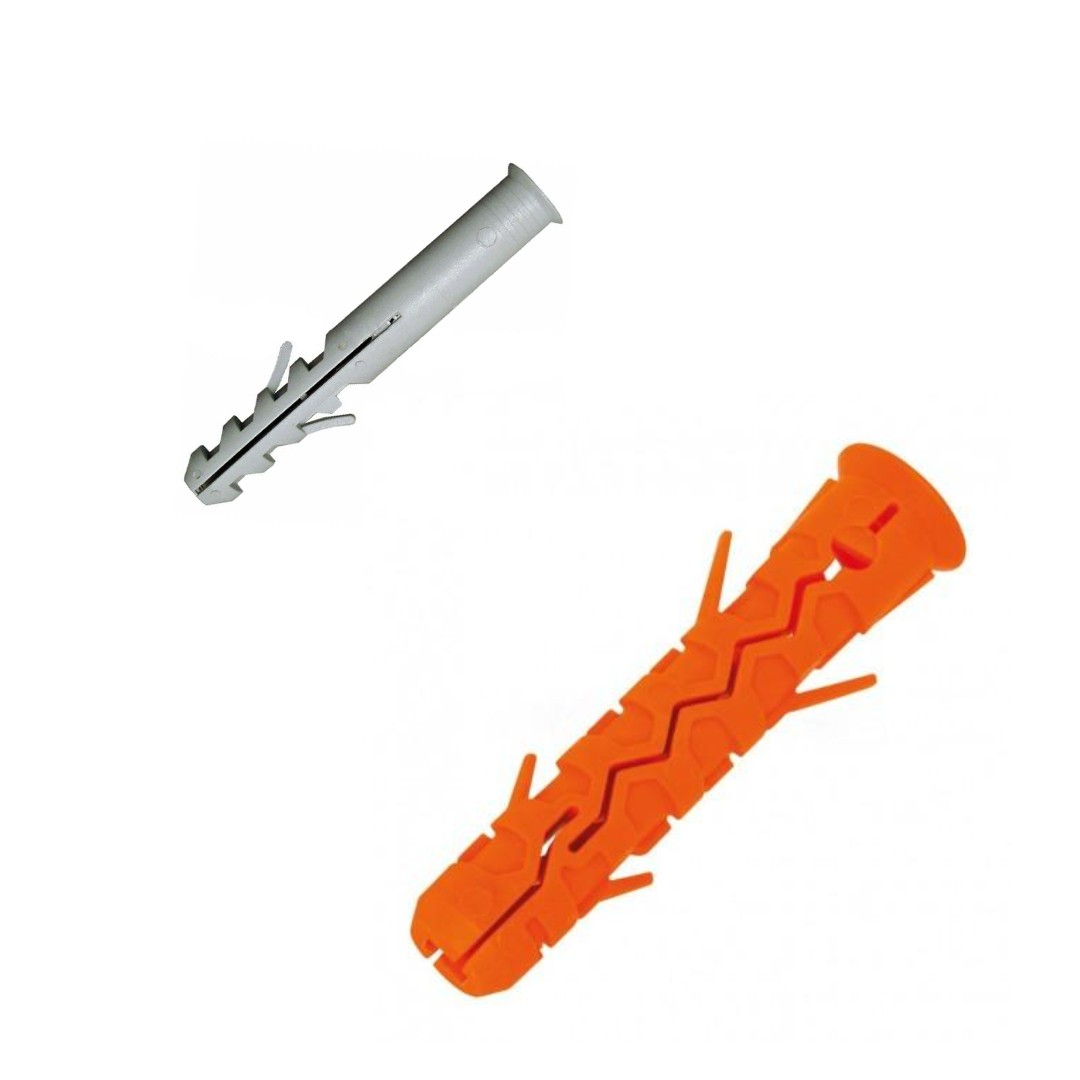
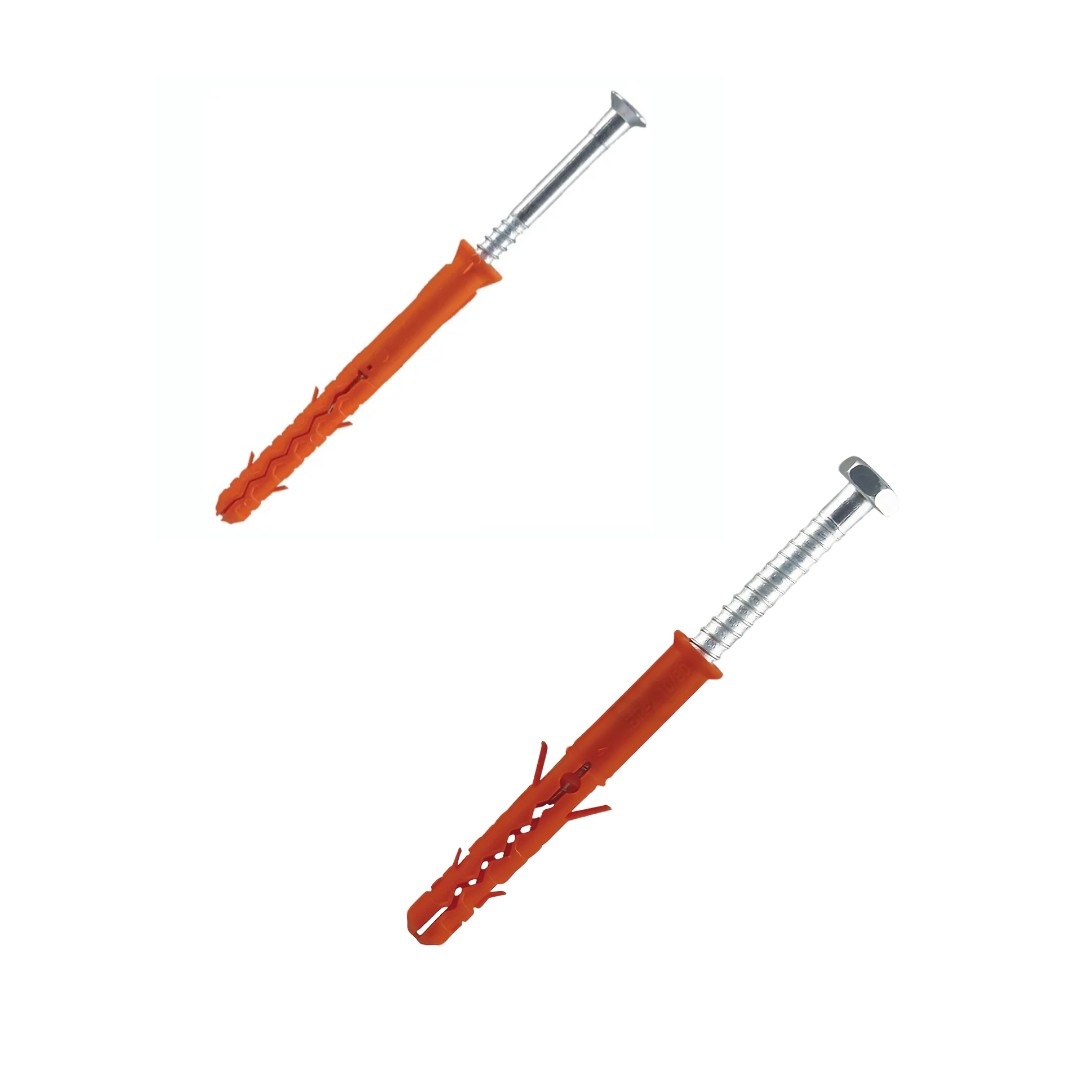
Sync: ETICS removed, Ø120-140mm, 5 linii productie, program lucru, coltar-pvc jpg, product images
https://claude.ai/code/session_01Rs6bxzaTfPSdvsHW5ShD7S

Changed region(s): [[0.3667, 0.3972, 0.9167, 0.9472], [0.1528, 0.0917, 0.6111, 0.4889]]

diff --git a/app/produse/flansa-vata/page.tsx b/app/produse/flansa-vata/page.tsx
@@ -6,9 +6,9 @@ import Footer from "@/components/Footer";
 
 /* ─── Metadata + Schema.org ──────────────────────────────────────────────── */
 export const metadata: Metadata = {
-  title: "Flanșă Vată Minerală — Disc Plastic Ø140-160mm pentru Termoizolație",
+  title: "Flanșă Vată Minerală — Disc Plastic Ø120-140mm pentru Termoizolație",
   description:
-    "Flanșă plastic cu rozetă extinsă Ø140–160mm pentru fixarea vatei minerale și polistirenului. " +
+    "Flanșă plastic cu rozetă extinsă Ø120–140mm pentru fixarea vatei minerale și polistirenului. " +
     "Model cu spite duble, distribuție uniformă a forței de prindere. Fabricată în România.",
   keywords: [
     "flansa vata minerala",
@@ -21,7 +21,7 @@ export const metadata: Metadata = {
   openGraph: {
     title: "Flanșă Vată Minerală | Plast Du IV",
     description:
-      "Disc plastic cu rozetă Ø140–160mm pentru distribuție uniformă a forței pe vată minerală și polistiren.",
+      "Disc plastic cu rozetă Ø120–140mm pentru distribuție uniformă a forței pe vată minerală și polistiren.",
     url: "https://plastdu.ro/produse/flansa-vata",
     images: [{ url: "/images/produse/flansa-vata.jpg", width: 1200, height: 630 }],
   },
@@ -33,7 +33,7 @@ const productSchema = {
   "@type": "Product",
   name: "Flanșă Vată Minerală — Plast Du IV",
   description:
-    "Disc plastic circular cu diametru Ø140–160mm, model cu spite duble, gri închis. " +
+    "Disc plastic circular cu diametru Ø120–140mm, model cu spite duble, gri închis. " +
     "Utilizat pentru fixarea vatei minerale și polistirenului pe fațade. " +
     "Suprafața mare a rozetei asigură distribuție uniformă a forței și previne tăierea izolantului.",
   image: "https://plastdu.ro/images/produse/flansa-vata.jpg",
@@ -64,7 +64,7 @@ const BENEFICII = [
   {
     titlu: "Suprafață de contact mare",
     descriere:
-      "Diametrul de Ø140–160mm al rozetei distribuie forța de fixare pe o suprafață de cca 154–200cm². " +
+      "Diametrul de Ø120–140mm al rozetei distribuie forța de fixare pe o suprafață de cca 113–154cm². " +
       "Previne penetrarea diblului prin stratul de vată minerală sau EPS și menține planietatea fațadei.",
     icon: (
       <svg className="w-6 h-6" fill="none" viewBox="0 0 24 24" stroke="currentColor" strokeWidth={1.5}>
@@ -170,7 +170,7 @@ export default function FlansaVataPage() {
                 <div className="relative w-full aspect-square max-w-lg mx-auto lg:mx-0 rounded-2xl overflow-hidden bg-gradient-to-br from-slate-100 to-slate-200 border border-neutral-border img-watermark">
                   <Image
                     src="/images/produse/flansa-vata/01.jpg"
-                    alt="Flanșă Vată Minerală Ø140-160mm — Plast Du IV"
+                    alt="Flanșă Vată Minerală Ø120-140mm — Plast Du IV"
                     fill
                     className="object-cover"
                     sizes="(max-width: 1024px) 100vw, 50vw"
@@ -204,7 +204,7 @@ export default function FlansaVataPage() {
                 </div>
                 <h1 className="mb-4">Flanșă Vată Minerală</h1>
                 <p className="text-lg text-slate-600 mb-6">
-                  Disc plastic circular cu rozetă extinsă Ø140–160mm, model cu spite duble, gri închis.
+                  Disc plastic circular cu rozetă extinsă Ø120–140mm, model cu spite duble, gri închis.
                   Proiectat pentru fixarea vatei minerale și a polistirenului pe fațade —
                   suprafața mare de contact previne penetrarea stratului izolant și asigură
                   o distribuție uniformă a forței de prindere.
@@ -214,7 +214,7 @@ export default function FlansaVataPage() {
                 <dl className="grid grid-cols-2 gap-3 mb-8">
                   {[
                     { label: "Material", value: "Polipropilenă (PP) stabilizată UV" },
-                    { label: "Diametru rozetă", value: "Ø140–160mm" },
+                    { label: "Diametru rozetă", value: "Ø120–140mm" },
                     { label: "Model", value: "Disc circular cu spite duble" },
                     { label: "Culoare", value: "Gri închis" },
                     { label: "Compatibil cu", value: "Vată minerală + EPS / EPS-G" },
@@ -263,7 +263,7 @@ export default function FlansaVataPage() {
                 a capului diblului în izolant, reducând capacitatea de prindere și deformând fața plăcii.
               </p>
               <p className="text-slate-600">
-                Flanșa cu diametru Ø140–160mm mărește suprafața de contact de cca 7–8 ori față de
+                Flanșa cu diametru Ø120–140mm mărește suprafața de contact de cca 7–8 ori față de
                 rozeta standard, distribuind aceeași forță pe o arie mult mai mare — sub limita
                 de presiune admisă de materialul izolant.
               </p>
@@ -302,10 +302,10 @@ export default function FlansaVataPage() {
                     {[
                       ["Material", "Polipropilenă (PP) cu stabilizatori UV"],
                       ["Formă", "Disc circular cu model spite duble"],
-                      ["Diametru exterior rozetă", "Ø140–160mm"],
+                      ["Diametru exterior rozetă", "Ø120–140mm"],
                       ["Culoare", "Gri închis RAL 7011 (aproximativ)"],
                       ["Gaură centrală", "Ø10mm (compatibil diblu Ø10mm)"],
-                      ["Suprafață de contact", "~154–200cm²"],
+                      ["Suprafață de contact", "~113–154cm²"],
                       ["Temperatură de utilizare", "-40°C … +80°C"],
                       ["Rezistență UV", "Stabilizat contra îmbătrânirii UV"],
                       ["Compatibil cu izolant", "Vată minerală (MW), EPS, EPS-G"],

diff --git a/app/aplicatii/page.tsx b/app/aplicatii/page.tsx
@@ -108,7 +108,7 @@ const APLICATII: Aplicatie[] = [
     imagine: "/images/produse/flansa-vata/01.jpg",
     descriereTehnica: [
       "Vata minerală (MW — Mineral Wool) oferă avantaje suplimentare față de EPS: rezistență la foc (clasa A1/A2), izolație fonică superioară și permeabilitate la vapori. Este obligatorie în clădirile înalte (peste 10 etaje) și în zonele cu cerințe sporite de comportament la foc.",
-      "Specificul fixării cu vată minerală față de polistiren: vata are rezistență la penetrare semnificativ mai redusă față de EPS. Rozeta standard Ø55mm poate intra în izolant dacă forța de strângere este prea mare. Este obligatorie utilizarea flanșei cu rozetă extinsă Ø140–160mm care distribuie forța pe o suprafață mult mai mare.",
+      "Specificul fixării cu vată minerală față de polistiren: vata are rezistență la penetrare semnificativ mai redusă față de EPS. Rozeta standard Ø55mm poate intra în izolant dacă forța de strângere este prea mare. Este obligatorie utilizarea flanșei cu rozetă extinsă Ø120–140mm care distribuie forța pe o suprafață mult mai mare.",
       "Cuiul metalic zincat este preferat față de cuiul PA deoarece rigiditatea metalică previne deformarea plăcilor fibroase de vată. Plăcile de vată minerală lamelă (cu fibre perpendiculare pe suprafață) au rezistență la compresiune mai mare, dar tot se recomandă rozeta mare.",
     ],
     parametriTehnici: [
@@ -116,7 +116,7 @@ const APLICATII: Aplicatie[] = [
       { param: "Densitate minimă recomandată", val: "≥ 80 kg/m³ (tablie) · ≥ 100 kg/m³ (lamelă)" },
       { param: "Grosimi uzuale", val: "80–200mm" },
       { param: "Adâncime ancoraj recomandat", val: "≥ 50mm (cărămidă/BCA), ≥ 40mm (beton)" },
-      { param: "Diametru rozetă flanșă obligatoriu", val: "Ø140–160mm (flanșă vată minerală)" },
+      { param: "Diametru rozetă flanșă obligatoriu", val: "Ø120–140mm (flanșă vată minerală)" },
       { param: "Număr dibluri / m²", val: "5–8 (tablie) · 6–10 (lamelă)" },
     ],
     produse: [
@@ -128,13 +128,13 @@ const APLICATII: Aplicatie[] = [
       },
       {
         href: "/produse/flansa-vata",
-        titlu: "Flanșă Vată Minerală (Ø140–160mm)",
+        titlu: "Flanșă Vată Minerală (Ø120–140mm)",
         descriere: "Disc cu rozetă extinsă — obligatoriu pentru distribuție uniformă pe vată minerală.",
         principal: true,
       },
     ],
     noteTehnician: [
-      "Folosiți ÎNTOTDEAUNA flanșa cu rozetă mare Ø140–160mm la vată minerală cu densitate < 100 kg/m³.",
+      "Folosiți ÎNTOTDEAUNA flanșa cu rozetă mare Ø120–140mm la vată minerală cu densitate < 100 kg/m³.",
       "Nu strângeți excesiv diblul — rozeta trebuie să fie flush cu suprafața vatei, nu să o comprime.",
       "Pe fațade cu cerințe de incombustibilitate (clasa A), vata minerală este singura opțiune ca izolant.",
       "Verificați că stratul de adeziv + vată nu depășește lungimea diblului ales minus adâncimea de ancoraj.",
@@ -480,7 +480,7 @@ export default function AplicatiiPage() {
                     ["Termoizolație exterioară standard", "EPS / EPS-G", "Beton, cărămidă, BCA", "Dibluri Cui Plastic (PA)"],
                     ["Termoizolație exterioară — solicitări mari", "EPS / EPS-G", "Beton, clădiri înalte", "Dibluri Cui Metalic Zincat"],
                     ["Termoizolație exterioară — cărămidă cu goluri", "EPS / Vată", "Cărămidă cu goluri", "Dibluri ZM (Zonă Mare)"],
-                    ["Vată minerală fațadă", "MW lamelă / tablie", "Orice suport", "Diblu metalic + Flanșă Ø140–160mm"],
+                    ["Vată minerală fațadă", "MW lamelă / tablie", "Orice suport", "Diblu metalic + Flanșă Ø120–140mm"],
                     ["OSB pe structură lemn", "—", "Grinzi / montanți lemn", "Flanșă OSB TSF-F55 + șurub galvanizat"],
                     ["Gips-carton (profile)", "—", "Beton, zidărie", "Dibluri Ø10mm (plastic sau metalic)"],
                   ].map(([aplicatie, material, suport, produs], i) => (

diff --git a/app/despre-noi/page.tsx b/app/despre-noi/page.tsx
@@ -15,7 +15,7 @@ export const metadata: Metadata = {
 const CIFRE = [
   { val: "2017", label: "An înființare" },
   { val: "8+", label: "Județe deservite" },
-  { val: "4", label: "Linii de producție" },
+  { val: "5", label: "Linii de producție" },
   { val: "B2B", label: "Focus exclusiv" },
 ];
 
@@ -253,11 +253,11 @@ export default function DespreNoiPage() {
                 <div className="space-y-2 text-sm text-slate-600">
                   <div className="flex justify-between">
                     <span>Luni — Vineri</span>
-                    <span className="font-medium text-slate-800">08:00 — 18:00</span>
+                    <span className="font-medium text-slate-800">08:00 — 17:00</span>
                   </div>
                   <div className="flex justify-between">
                     <span>Sâmbătă</span>
-                    <span className="font-medium text-slate-800">08:00 — 14:00</span>
+                    <span className="font-medium text-slate-500">Închis</span>
                   </div>
                   <div className="flex justify-between">
                     <span>Duminică</span>

diff --git a/app/produse/page.tsx b/app/produse/page.tsx
@@ -45,9 +45,9 @@ const PRODUSE_FABRICATE = [
     categorie: "Flanșe",
     fabricat: true,
     descriere:
-      "Disc plastic cu rozeta extinsă Ø140–160mm, model spite duble. Distribuție uniformă a forței de prindere " +
+      "Disc plastic cu rozeta extinsă Ø120–140mm, model spite duble. Distribuție uniformă a forței de prindere " +
       "pe vată minerală și polistiren. Gri închis.",
-    specificatii: ["Material: PP", "Diametru rozetă: Ø140–160mm", "Model: spite duble"],
+    specificatii: ["Material: PP", "Diametru rozetă: Ø120–140mm", "Model: spite duble"],
     variante: "Standard",
     livrare: "La cerere",
     badge: "Produs propriu",
@@ -114,7 +114,7 @@ const PRODUSE_DISTRIBUITE = [
   {
     titlu: "Colțar PVC cu plasă",
     categorie: "Profile",
-    imagine: "/images/produse/coltar-pvc/01.webp",
+    imagine: "/images/produse/coltar-pvc/01.jpg",
     descriere: "Profil de colț din PVC cu plasă din fibră de sticlă pentru armarea muchiilor fațadei.",
     badge: "Distribuit",
     badgeColor: "bg-slate-100 text-slate-600",